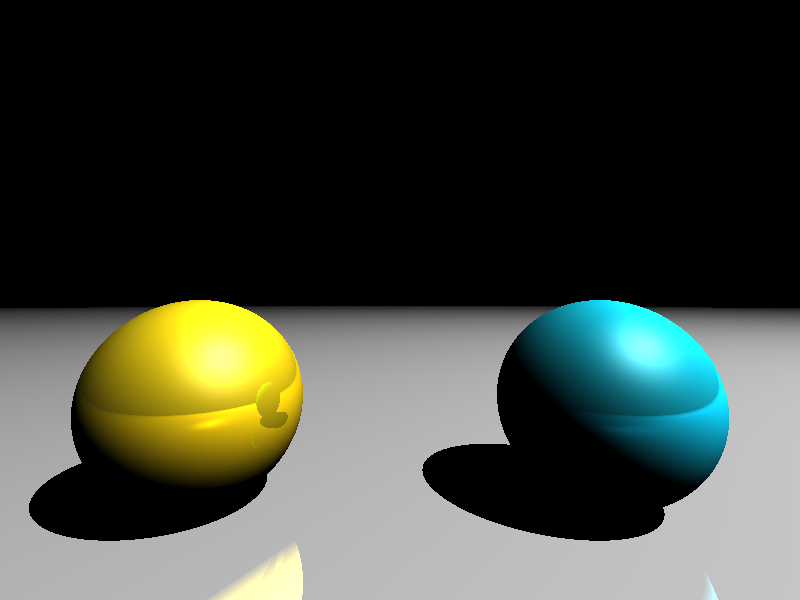
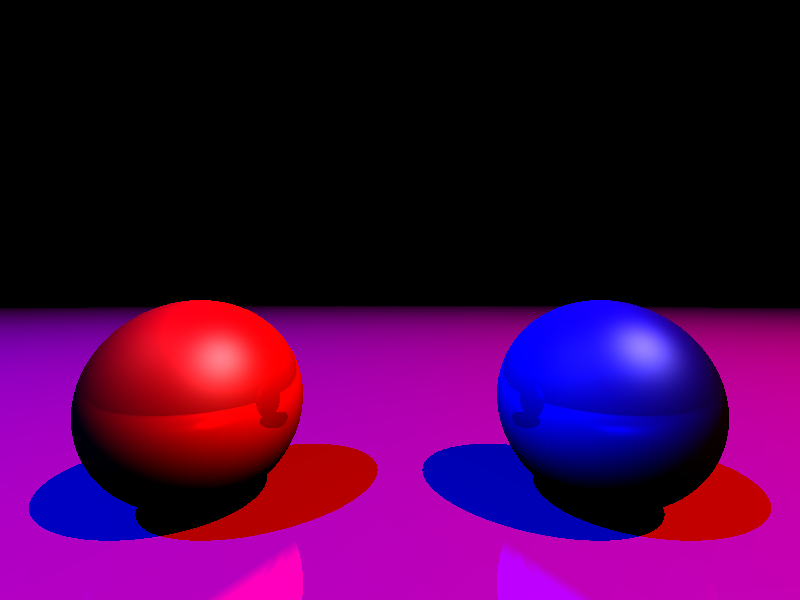
Updated Lights

diff --git a/raytracing.py b/raytracing.py
@@ -73,9 +73,8 @@ lights = [  # { 'position': np.array([10.125,16,5.5]), 'ambient': np.array([0.12
             # { 'position': np.array([10.25,16,5.625]), 'ambient': np.array([0.125, 0.125, 0.125]), 'diffuse': np.array([0.25, 0.25, 0.25]), 'specular': np.array([0.125, 0.125, 0.125]) },
             # { 'position': np.array([10.375,16,5.75]), 'ambient': np.array([0.125, 0.125, 0.125]), 'diffuse': np.array([0.25, 0.25, 0.25]), 'specular': np.array([0.125, 0.125, 0.125]) },
             # { 'position': np.array([10.5,16,5.875]), 'ambient': np.array([0.125, 0.125, 0.125]), 'diffuse': np.array([0.25, 0.25, 0.25]), 'specular': np.array([0.125, 0.125, 0.125]) },
-            {'position': np.array([10, 16, 6]), 'ambient': np.array(
-                [0.125, 0.125, 0.125]), 'diffuse': np.array([2, 2, 2]), 'specular': np.array([1, 1, 1])},
-            # { 'position': np.array([9.875,16,6.125]), 'ambient': np.array([0.125, 0.125, 0.125]), 'diffuse': np.array([0.25, 0.25, 0.25]), 'specular': np.array([0.125, 0.125, 0.125]) },
+            {'position': np.array([10, 16, 6]), 'ambient': np.array([0.125, 0.125, 0.125]), 'diffuse': np.array([2, 0, 0]), 'specular': np.array([1, 1, 1])},
+            { 'position': np.array([-10,16,6]), 'ambient': np.array([0.125, 0.125, 0.125]), 'diffuse': np.array([0, 0, 2]), 'specular': np.array([0.125, 0.125, 0.125]) },
             # { 'position': np.array([9.75,16,6.25]), 'ambient': np.array([0.125, 0.125, 0.125]), 'diffuse': np.array([0.25, 0.25, 0.25]), 'specular': np.array([0.125, 0.125, 0.125]) },
             # { 'position': np.array([9.625,16,6.375]), 'ambient': np.array([0.125, 0.125, 0.125]), 'diffuse': np.array([0.25, 0.25, 0.25]), 'specular': np.array([0.125, 0.125, 0.125]) },
             # { 'position': np.array([9.5,16,6.5]), 'ambient': np.array([0.125, 0.125, 0.125]), 'diffuse': np.array([0.25, 0.25, 0.25]), 'specular': np.array([0.125, 0.125, 0.125]) }
